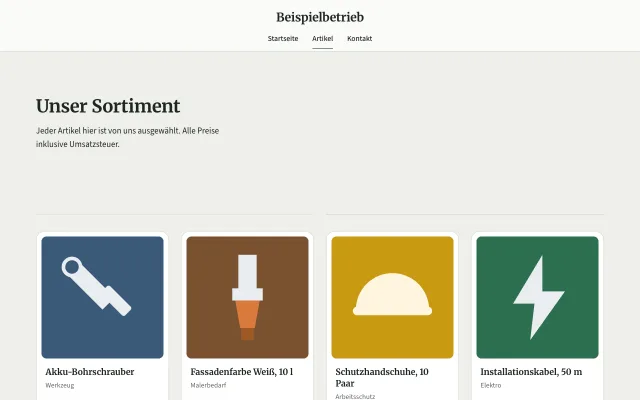
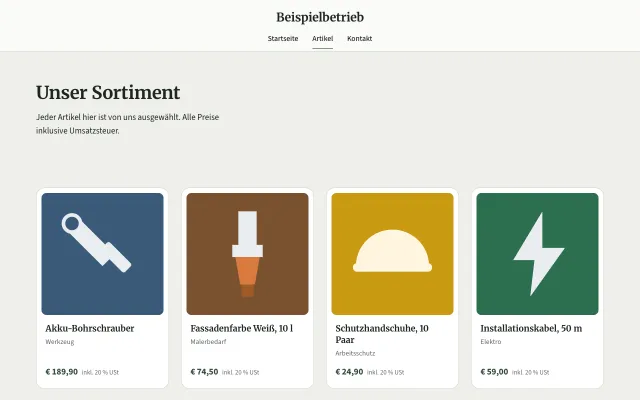
fix(shop): verdict fixes for template review

Changed region(s): [[0.0625, 0.48, 0.9375, 1.0], [0.0312, 0.21, 0.3438, 0.39]]

diff --git a/frontend/src/shop/shop.css b/frontend/src/shop/shop.css
@@ -260,6 +260,8 @@ h2.shop-heading { font-size: clamp(1.625rem, 2.8vw, 2.375rem); }
   transition: transform 220ms var(--shop-ease);
 }
 
+/* On an accent ground the accent button would vanish: it takes the primary colour there. */
+.shop-block--bg-accent .shop-button { background: var(--shop-primary); color: var(--shop-on-primary); }
 .shop-button:hover { filter: brightness(1.06); }
 .shop-button:hover::after { transform: translateX(3px); }
 .shop-button:active { transform: scale(0.97); transition-duration: 60ms; }
@@ -463,14 +465,14 @@ h2.shop-heading { font-size: clamp(1.625rem, 2.8vw, 2.375rem); }
 [data-form="handwerk"] h1.shop-heading { font-size: clamp(2.25rem, 4.6vw, 3.75rem); letter-spacing: -0.015em; line-height: 1.08; }
 [data-form="handwerk"] .shop-heading { font-weight: 700; letter-spacing: -0.01em; }
 
-[data-form="handwerk"] .shop-list > .shop-heading {
+[data-form="handwerk"] .shop-list > .shop-heading:not([data-empty]) {
   display: flex;
   align-items: center;
   gap: 1.5rem;
   text-align: center;
 }
-[data-form="handwerk"] .shop-list > .shop-heading::before,
-[data-form="handwerk"] .shop-list > .shop-heading::after {
+[data-form="handwerk"] .shop-list > .shop-heading:not([data-empty])::before,
+[data-form="handwerk"] .shop-list > .shop-heading:not([data-empty])::after {
   content: "";
   flex: 1;
   border-top: 1px solid var(--shop-border);
@@ -551,7 +553,7 @@ h2.shop-heading { font-size: clamp(1.625rem, 2.8vw, 2.375rem); }
 }
 
 [data-form="kraeftig"] .shop-list > .shop-heading { text-transform: uppercase; font-size: clamp(2rem, 4.2vw, 3.5rem); line-height: 1; letter-spacing: -0.03em; }
-[data-form="kraeftig"] .shop-list > .shop-heading::after {
+[data-form="kraeftig"] .shop-list > .shop-heading:not([data-empty])::after {
   content: "";
   display: block;
   width: 3rem;
